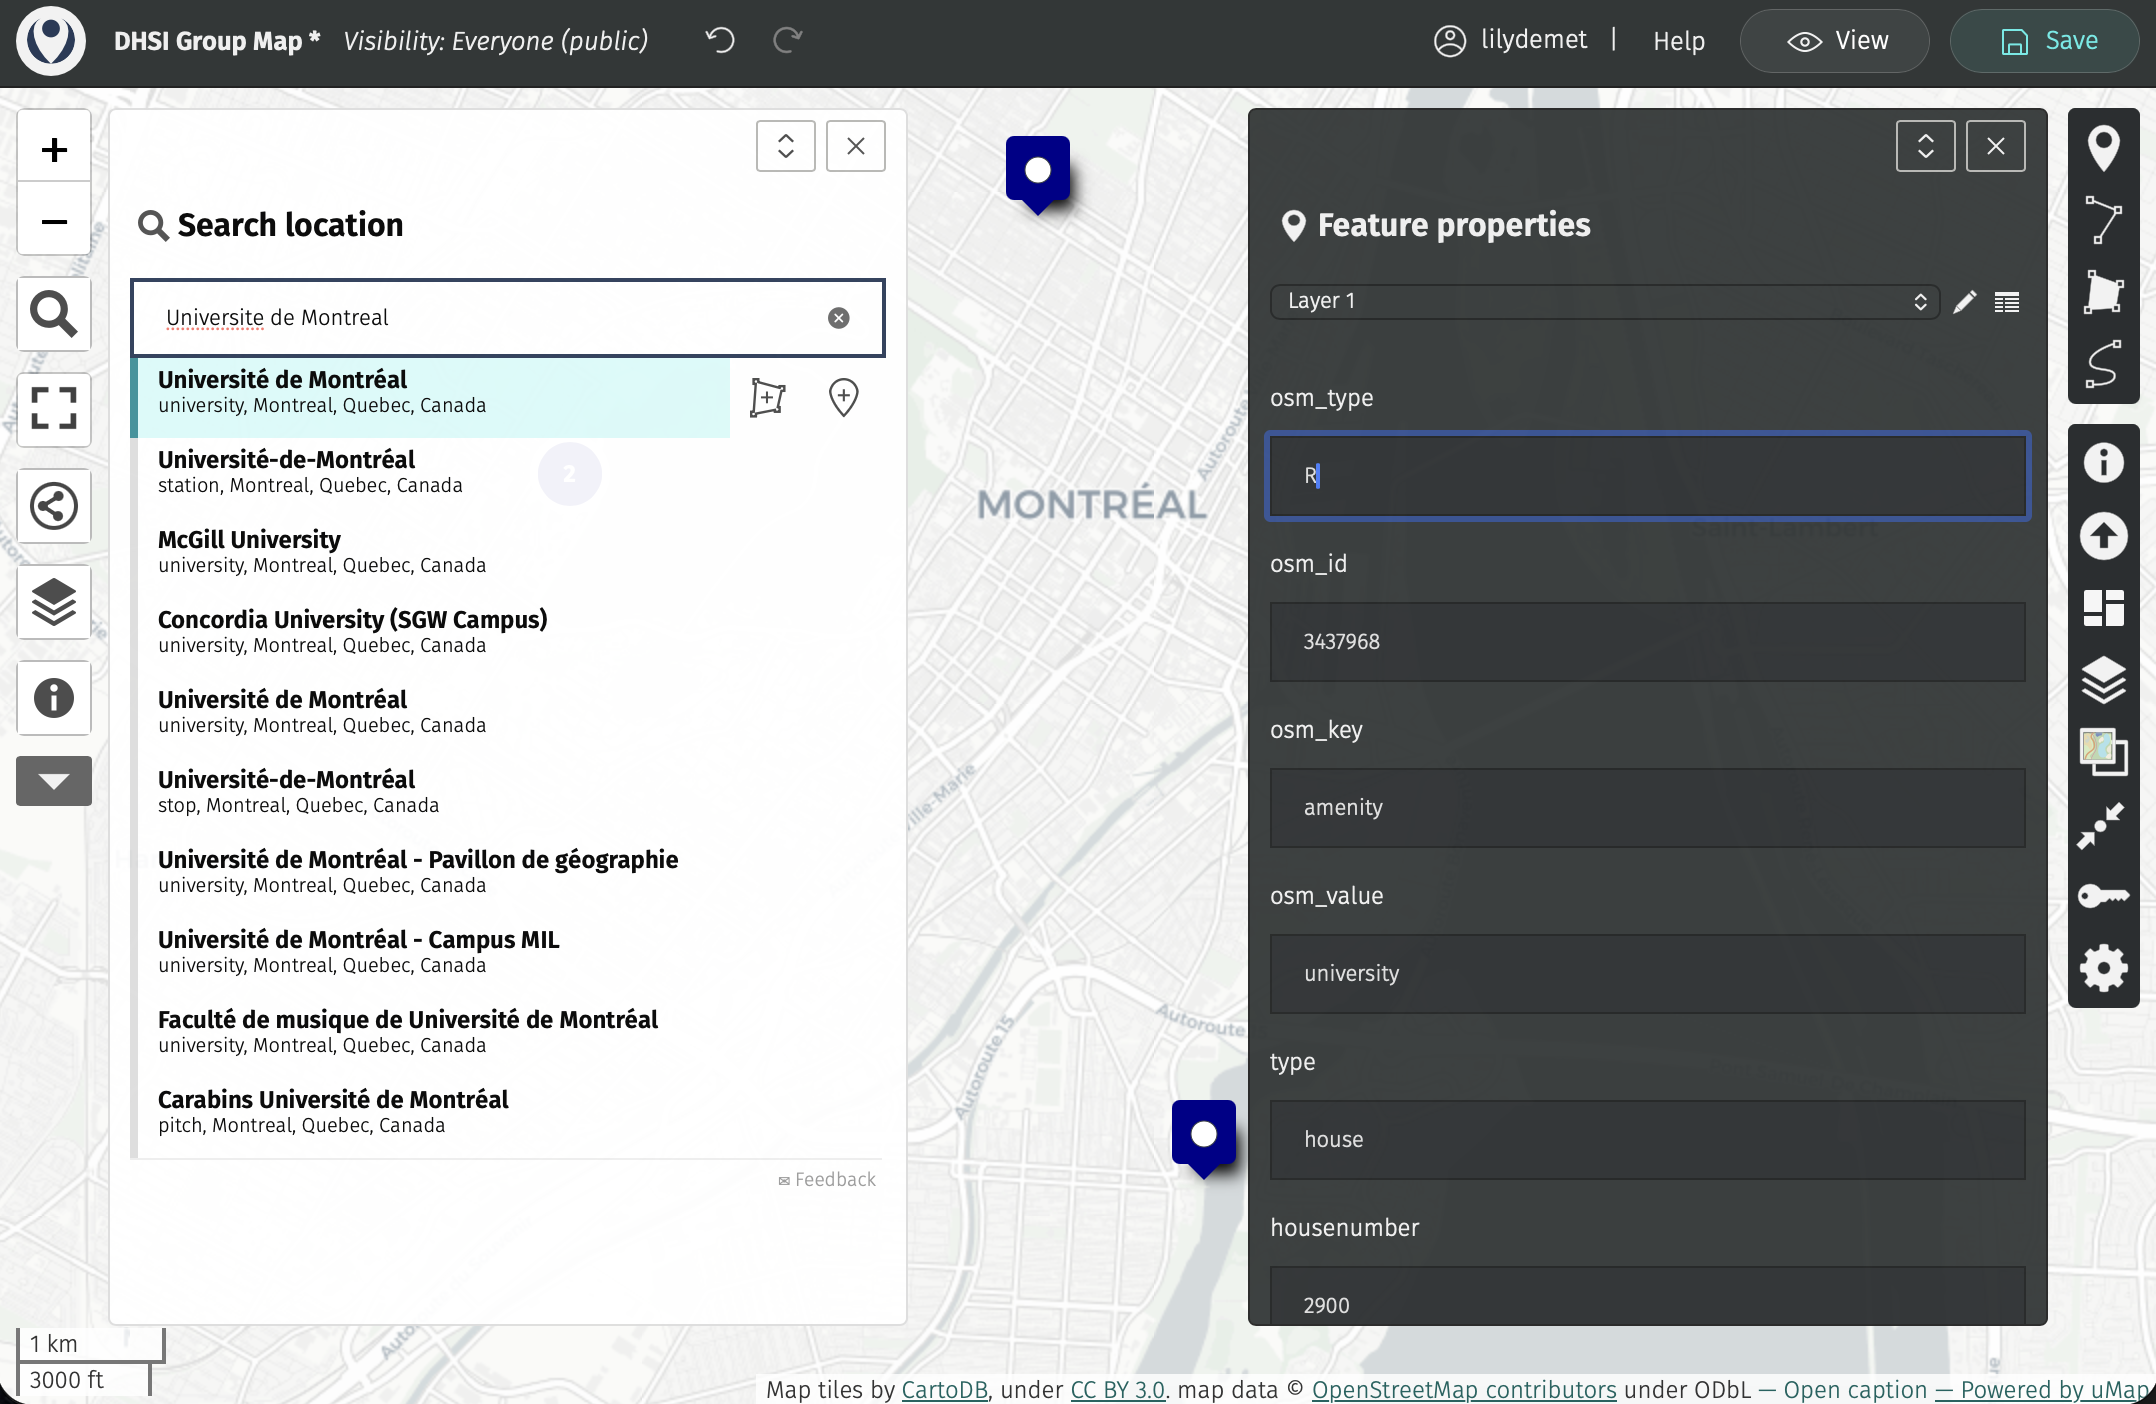
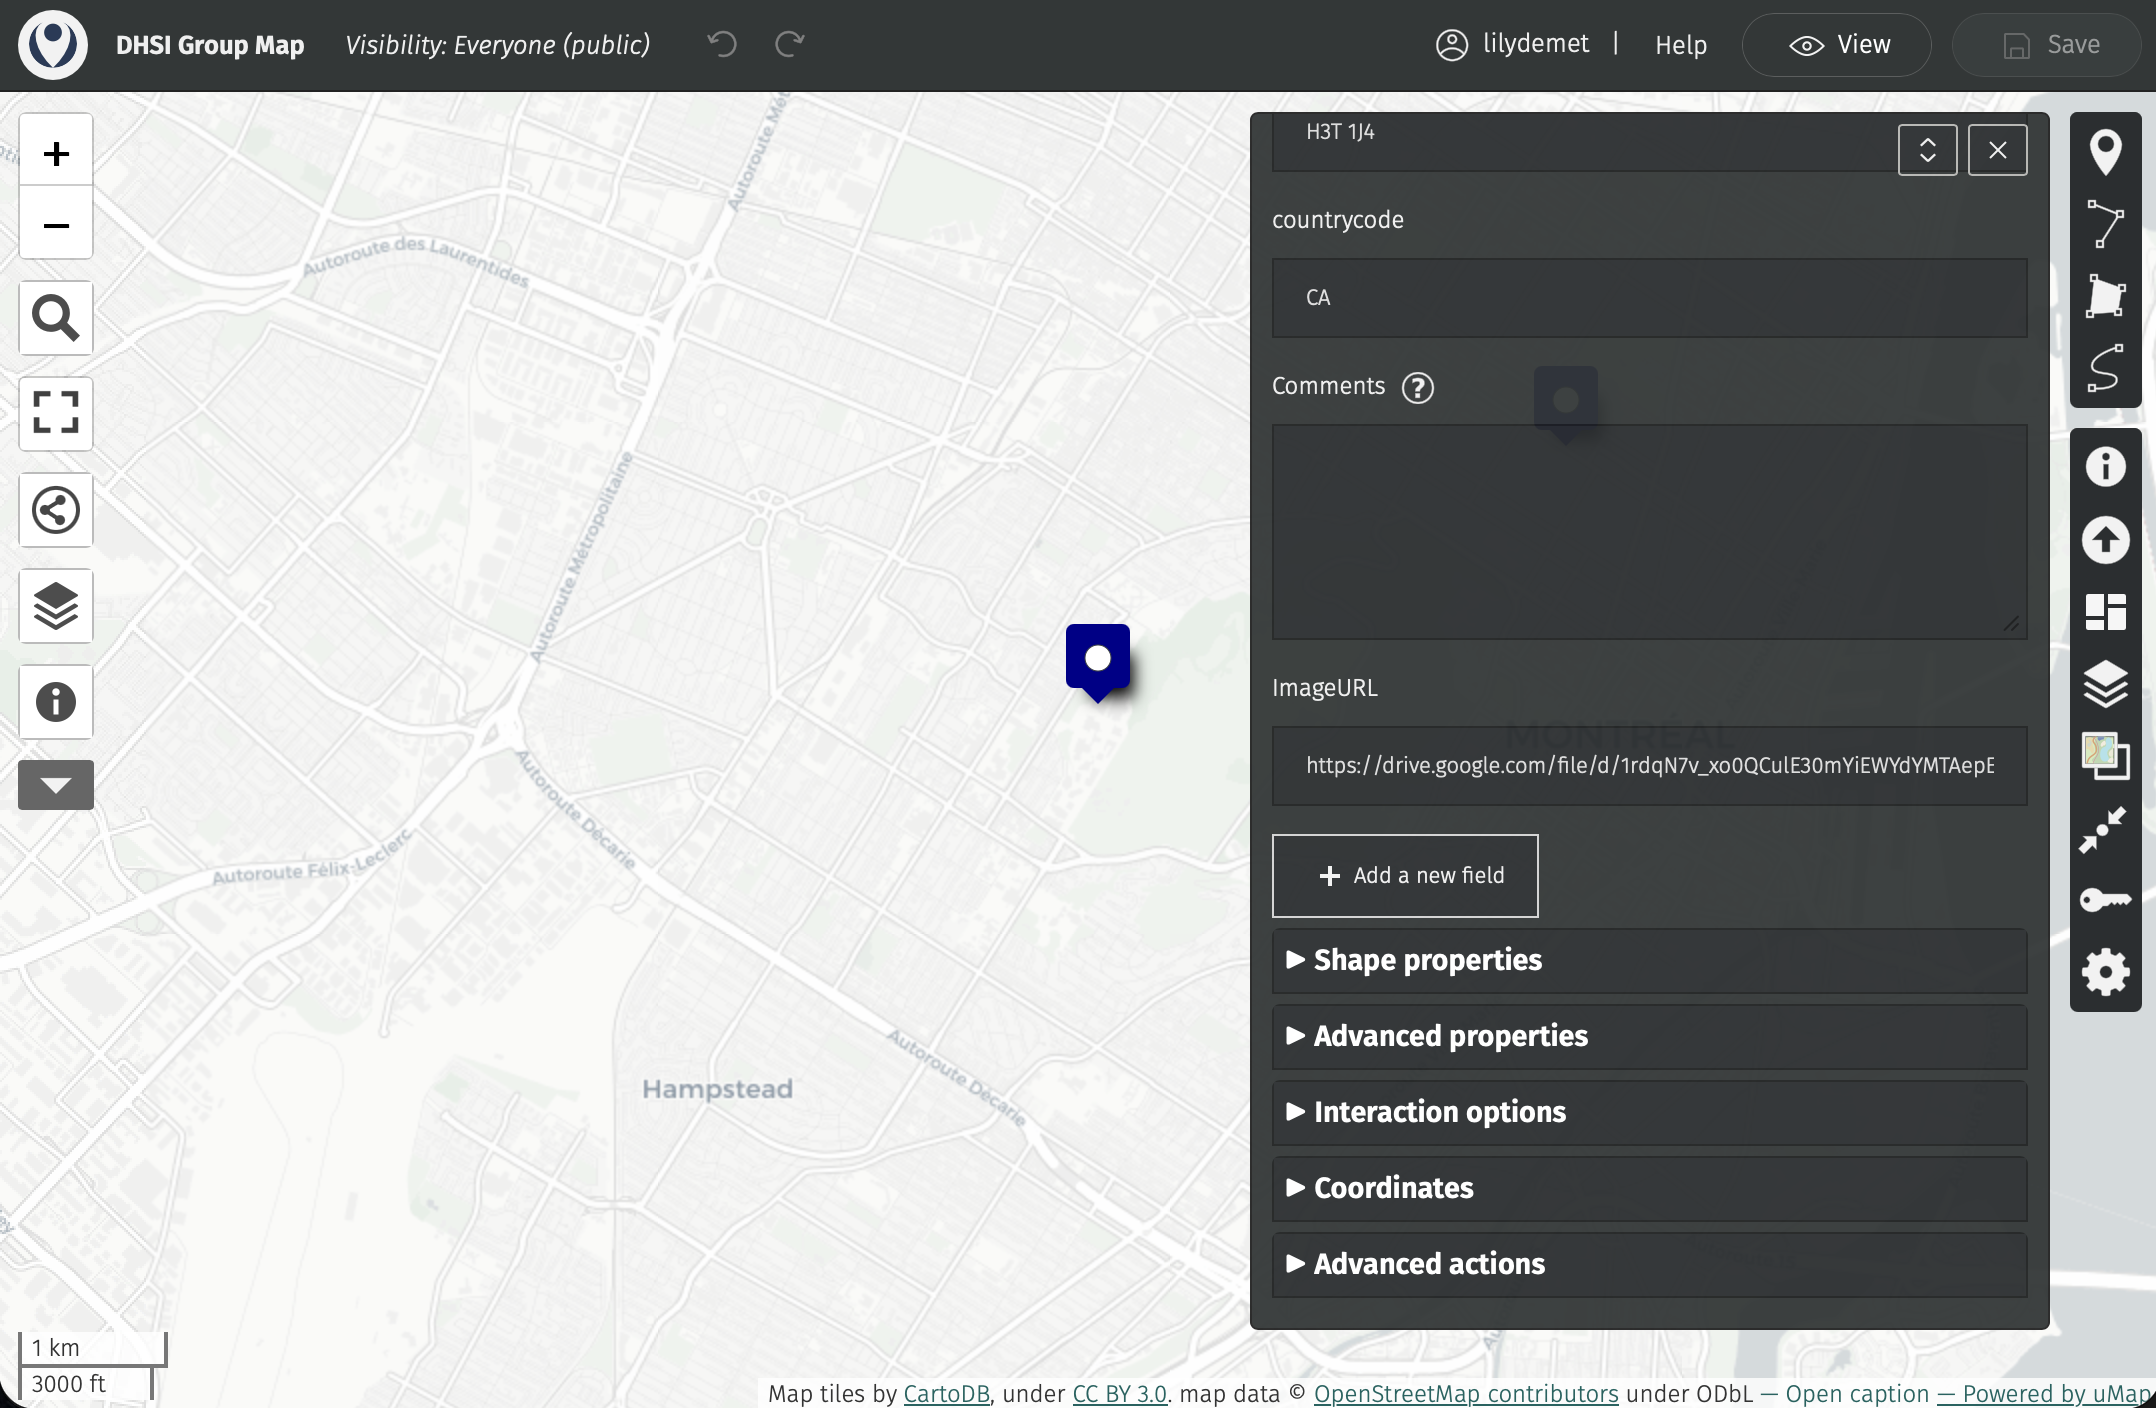
updated page

diff --git a/group-umap.md b/group-umap.md
@@ -38,9 +38,16 @@ Below you can find step-by-step documentation for adding a point to the group ma
 
 <img src="./content/images/group3.png" style="width:100%">
 
-Once searched, click on the marker icon that prompts you to "Add this place to my map". In the "Feature Properties" side-panel that opens, scroll down and add a description in the **Comments** field. (Add any image credits you wish here as well.)
+Once searched, click on the marker icon that prompts you to "Add this place to my map". 
+
+<img src="./content/images/group4.png" style="width:100%">
+
+
+In the "Feature Properties" side-panel that opens, scroll down and add a description in the **Comments** field. (Add any image credits you wish here as well.)
 
 Then, paste the Google Drive link to your relevant image in the **ImageURL** field. 
+
+<img src="./content/images/group5.png" style="width:100%">
 
 Close the "Feature Properties" side-panel.
 
@@ -48,11 +55,28 @@ Close the "Feature Properties" side-panel.
 
 *4*{: .circle .circle-green} All the points we add are part of a single data layer called "Points of Interest". If you accidentally closed the panel early, or want to add more information to your point, you can do so by opening the data table for "Points of Interest" and editing it directly. 
 
+To do this, open the "Manage layers" tool from the right-hand toolbar. 
+
+<img src="./content/images/group6.png" style="width:100%">
+
+Then open the table. 
+
+<img src="./content/images/group7.png" style="width:100%">
 
 
 
+Double click a field to edit it directly. 
 
 
+<br>
+
+*5*{: .circle .circle-green} **Save your work** in the top right-hand corner. Notice you may get an error if someone else is actively contributing to the map at the same time. Try not to override someone else's edits. Additionally, please be sure to close your browser tab once you are done contributing. We have tried to reduce conflicts by staggering our additions through asynchronous contributions. 
+
+<img src="./content/images/group9.png" style="width:100%">
+
+
+
+<!-- 
 
 Note that you can also add a marker directly to the map using the "Add Marker" tool in the right-hand panel. 
 
@@ -62,13 +86,10 @@ Note that you can also add a marker directly to the map using the "Add Marker" t
 *4*{: .circle .circle-green} 
 
 
-- save. notice you may get error if someone else is editing. wait for them to finish or save and return. try not to override someone. that being said, close tab when done. we've tried to douncut this by staggering additions by having you add asyncrhoneously throuhout the week. 
 
 
 > zoom to layer and save. 
 
 
 
-- teach thursday but if you want to start adding - welcome to - how to add images → add new field, upload image link  - then upload image to drive - make edit all and then link? could make google drive collective for them…
-
-
+ -->
